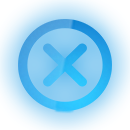
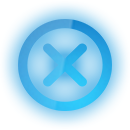
Fixed "why are you asking me" tooltip color. Fixed "x" button cut-off. Fixed gulp file img path

diff --git a/app/js/components/ng-slider/dist/ng-slider.min.js b/app/js/components/ng-slider/dist/ng-slider.min.js
@@ -572,8 +572,7 @@ function(a) {
                         n = this.o.pointers[1];
                     k.o.css(this.css.visible), l.o.css(this.css.visible);
                     var o = n.ptr[0].offsetLeft - m.ptr[0].offsetLeft;
-                   	o + 10 < k.o[0].offsetWidth + l.o[0].offsetWidth ? (f.o.css(this.css.hidden), f.value.html(this.nice(g.value.origin)), e = (g.value.prc - e) / 2 + e, g.value.prc != a.value.prc && (d.value.html(this.nice(this.o.pointers[0].value.origin) + "&nbsp;&ndash;&nbsp;" + this.nice(this.o.pointers[1].value.origin)), i.label = d.o[0].offsetWidth, i.border = e * p / 100)) : (f.value.html(this.nice(g.value.origin)), f.o.css(this.css.visible))
-                }
+                   	o + 10 < k.o[0].offsetWidth + l.o[0].offsetWidth ? (f.o.css(this.css.hidden), f.value.html(this.nice(g.value.origin)), e = (g.value.prc - e) / 2 + e, g.value.prc != a.value.prc && (d.value.html(this.nice(this.o.pointers[0].value.origin) + "&nbsp;&ndash;&nbsp;" + this.nice(this.o.pointers[1].value.origin)), i.label = d.o[0].offsetWidth, i.border = e * p / 100)) : (f.value.html(this.nice(g.value.origin)), f.o.css(this.css.visible))               }
                 i = b(d, i, e);
                 var p = c.settings.vertical ? c.sizes.domHeight : c.sizes.domWidth;
                 if (f) {

diff --git a/gulpfile.js b/gulpfile.js
@@ -125,7 +125,7 @@ gulp.task('views', function() {
 // Images
 gulp.task('images', function() {
   return gulp.src('app/img/*')
-    .pipe(gulp.dest('build/img/*'));
+    .pipe(gulp.dest('build/img/'));
     // .pipe(notify({ message: 'Images task complete' }));
 });
 

diff --git a/app/scss/brands/maytag/_app-main-mt.scss b/app/scss/brands/maytag/_app-main-mt.scss
@@ -43,6 +43,9 @@
 		.btn-wrap {
 			display: inline-block;
 		}
+		.tooltip {
+			opacity: 1;
+		}
 		.btn-icon {
 			background: #002e58;
 			border-radius: 24px;
